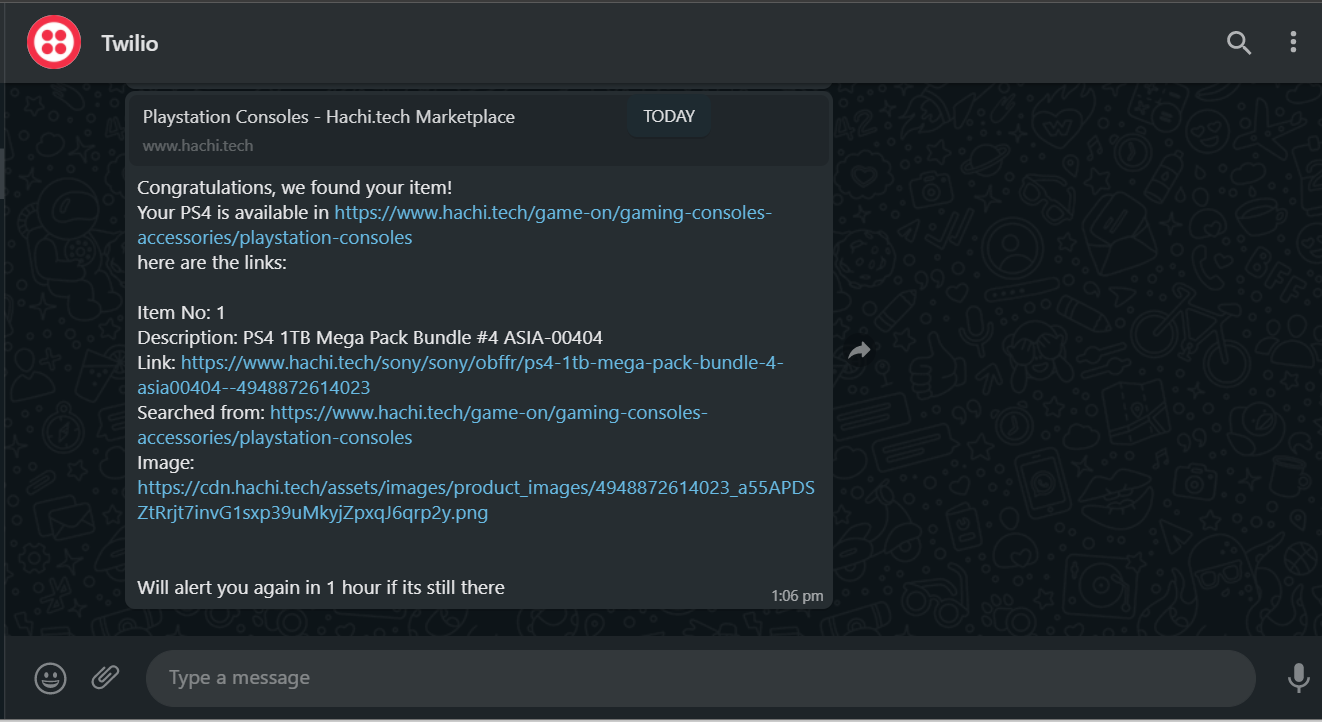
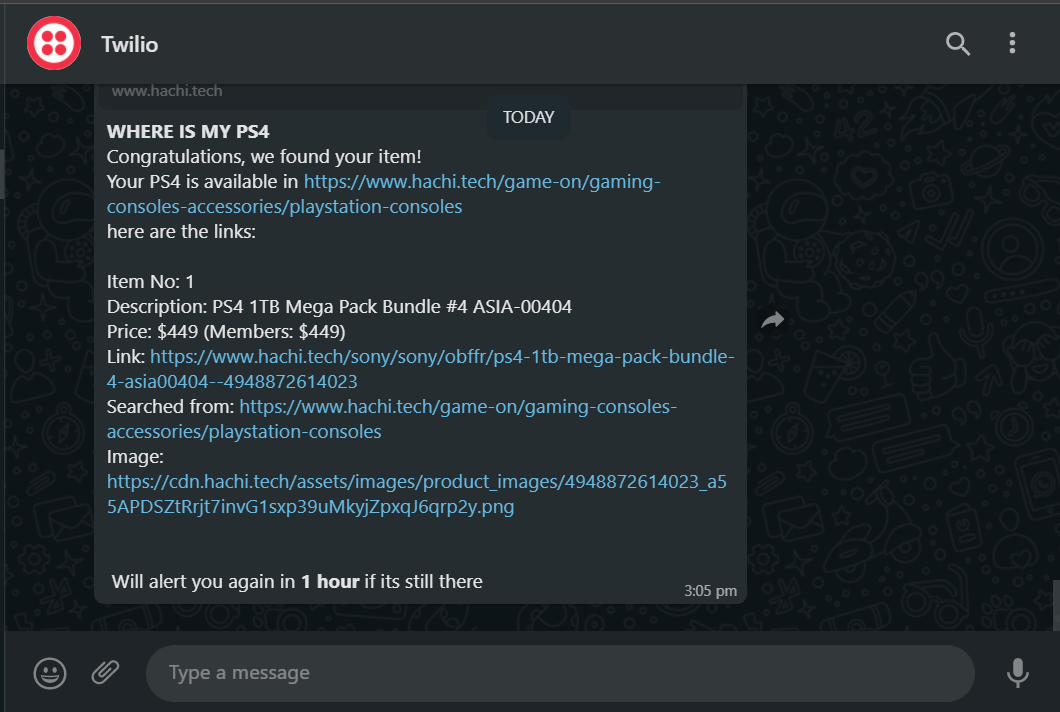
Added prices into README images

diff --git a/main.py b/main.py
@@ -182,8 +182,8 @@ def intro_message(found_items):
 
     else:
         message = f"""Congratulations, we found your item!
-    Your {SEARCH_ITEM} is available in {HACHI_SEARCH_PAGE_LINK}
-    here are the links: """
+Your {SEARCH_ITEM} is available in {HACHI_SEARCH_PAGE_LINK}
+here are the links: """
     return message
 
 
@@ -192,12 +192,12 @@ def build_message_items(found_items):
 
     for i, item in enumerate(found_items):
         message = f"""
-    Item No: {i + 1}
-    Description: {item['item_description']}
-    Price: ${item['price']} (Members: ${item['member_price']})
-    Link: {item['link']}
-    Searched from: {HACHI_SEARCH_PAGE_LINK}
-    Image: {item['item_image']}
+Item No: {i + 1}
+Description: {item['item_description']}
+Price: ${item['price']} (Members: ${item['member_price']})
+Link: {item['link']}
+Searched from: {HACHI_SEARCH_PAGE_LINK}
+Image: {item['item_image']}
 
         """
         message_items.append(message)
@@ -224,7 +224,7 @@ def main():
     message_pack.extend(message_items)
     body = "\n".join(message_pack)
     if found:
-        body += "\n Will alert you again in 1 hour if its still there"
+        body += "\n Will alert you again in *1 hour* if its still there"
 
         if ENABLED_TWILIO:
 

diff --git a/README.md b/README.md
@@ -2,14 +2,16 @@
 Where is my PS5?! Is a Cron bot that searches and scans Singapore Challenger's Hachi Tech for any Stock of PS5(Or any other search item of your liking). It can print and send whenever it has found a stock to the user, attached with link to the purchase. Pages are scanned every 1 second
 
 ## Let me know when there's a PS5 via Whatsapp
+Example is given for ps4 ( You can also change the search field)
 ![](public/img.png)
 ### Specifications of alerts
 1. List of products found in that page that matches the `search_word`
 2. For each product:
    1. Description
    2. Link
-   3. Search Page
-   4. Image
+   3. Price(s)
+   4. Search Page
+   5. Image
 
 
 ### Bot Intervals
